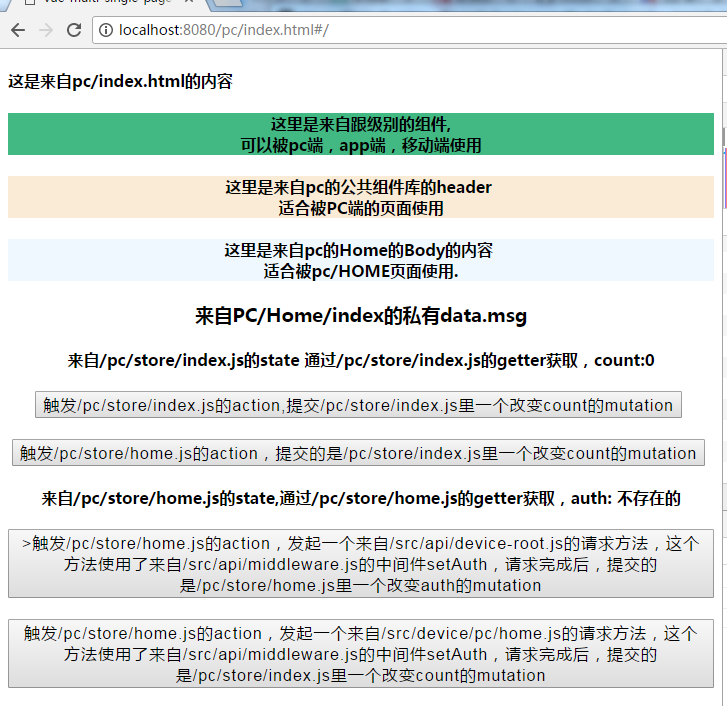
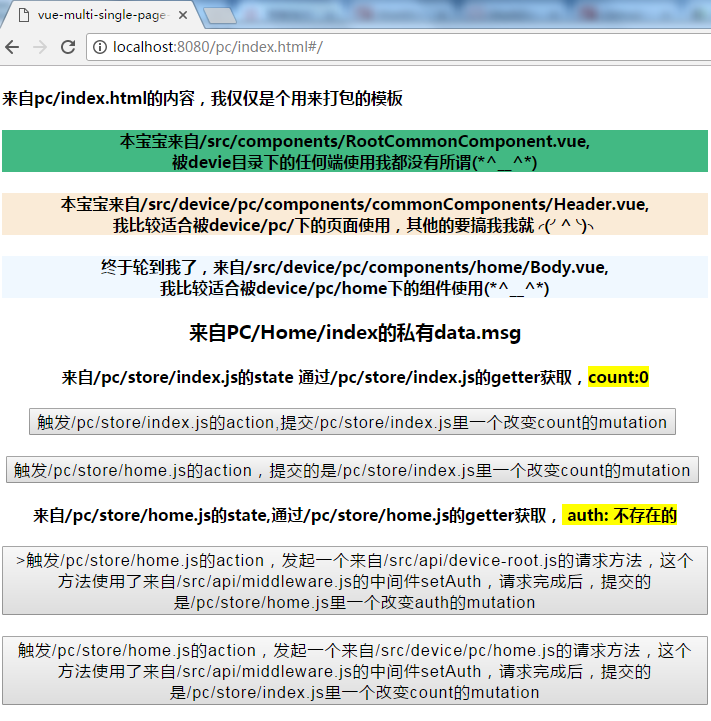
优化用例

diff --git a/src/device/pc/components/Home/Index.vue b/src/device/pc/components/Home/Index.vue
@@ -4,13 +4,13 @@
     <_Header/>
     <_Body/>
     <h3>{{msg}}</h3>
-    <h4>来自/pc/store/index.js的state 通过/pc/store/index.js的getter获取，count:{{count}}</h4>
+    <h4>来自/pc/store/index.js的state 通过/pc/store/index.js的getter获取，<span>count:{{count}}</span></h4>
     <button v-on:click="add2">触发/pc/store/index.js的action,提交/pc/store/index.js里一个改变count的mutation</button>
     <br>
     <br>
     <button v-on:click="homeAdd2">触发/pc/store/home.js的action，提交的是/pc/store/index.js里一个改变count的mutation</button>
     <br>
-    <h4>来自/pc/store/home.js的state,通过/pc/store/home.js的getter获取，auth: {{auth}}</h4>
+    <h4>来自/pc/store/home.js的state,通过/pc/store/home.js的getter获取，<span> auth: {{auth}}</span></h4>
     <button v-on:click="getAuth">>触发/pc/store/home.js的action，发起一个来自/src/api/device-root.js的请求方法，这个方法使用了来自/src/api/middleware.js的中间件setAuth，请求完成后，提交的是/pc/store/home.js里一个改变auth的mutation</button>
     <br>
     <br>
@@ -62,5 +62,8 @@
     font-size: 16px;
     letter-spacing: 1px;
     font-family: Arial, "Helvetica Neue", Helvetica, sans-serif;
+  }
+  span{
+    background-color: yellow;
   }
 </style>

diff --git a/src/device/pc/components/commonComponents/Header.vue b/src/device/pc/components/commonComponents/Header.vue
@@ -1,7 +1,7 @@
 <template>
   <h4>
-    这里是来自pc的公共组件库的header <br>
-    适合被PC端的页面使用
+    本宝宝来自/src/device/pc/components/commonComponents/Header.vue,<br>
+    我比较适合被device/pc/下的页面使用，其他的要搞我我就╭(╯^╰)╮
   </h4>
 </template>
 

diff --git a/src/device/pc/index.html b/src/device/pc/index.html
@@ -5,7 +5,7 @@
     <title>vue-multi-single-page-pc</title>
   </head>
   <body>
-  <h4>这是来自pc/index.html的内容</h4>
+  <h4>来自pc/index.html的内容，我仅仅是个用来打包的模板</h4>
     <div id="app"></div>
     <!-- built files will be auto injected -->
   </body>

diff --git a/src/components/RootCommonComponent.vue b/src/components/RootCommonComponent.vue
@@ -1,7 +1,7 @@
 <template>
   <h4>
-    这里是来自跟级别的组件,<br>
-    可以被pc端，app端，移动端使用
+    本宝宝来自/src/components/RootCommonComponent.vue,<br>
+    被devie目录下的任何端使用我都没有所谓(*^__^*)
   </h4>
 </template>
 <script>

diff --git a/src/device/pc/components/Home/Body.vue b/src/device/pc/components/Home/Body.vue
@@ -1,7 +1,7 @@
 <template>
   <h4>
-    这里是来自pc的Home的Body的内容 <br>
-    适合被pc/HOME页面使用.
+    终于轮到我了，来自/src/device/pc/components/home/Body.vue,<br>
+    我比较适合被device/pc/home下的组件使用(*^__^*)
   </h4>
 </template>
 

diff --git a/README.md b/README.md
@@ -8,9 +8,14 @@
 
 ##	src目录结构及其意义
 > 介绍src的目录设置及其作用
-> 介绍 界面-组件-vuex-接口 的关系
-> 概况两图流
-> 
+> 介绍 界面-模板html-组件-vuex-接口 的关系
+
+###  概况两图流
+1.	pc主页示意图
+![主页示意图](https://github.com/vincentmrlau/vue-multi-device-single-page/blob/master/images/pc-index.png?raw=true)
+2.	分析图（不知道应该怎么画）
+![分析图](https://github.com/vincentmrlau/vue-multi-device-single-page/blob/master/images/whole-view.png?raw=true)
+
 
 ###	目录设置及其作用
 ```
@@ -70,6 +75,9 @@
 │                  home.js	# home这个模块使用的 types
 │                  root.js	# 公用的types
 ```
+
+### 界面-模板-组件 的关系
+
 
 ##	使用 
 ### build 打包
